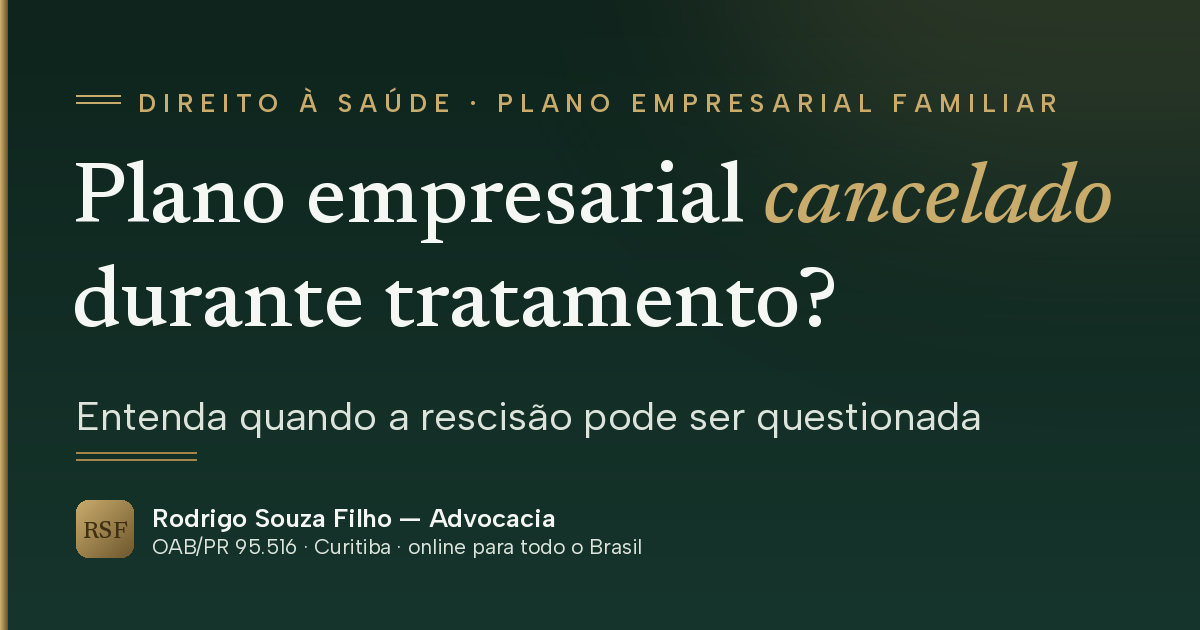
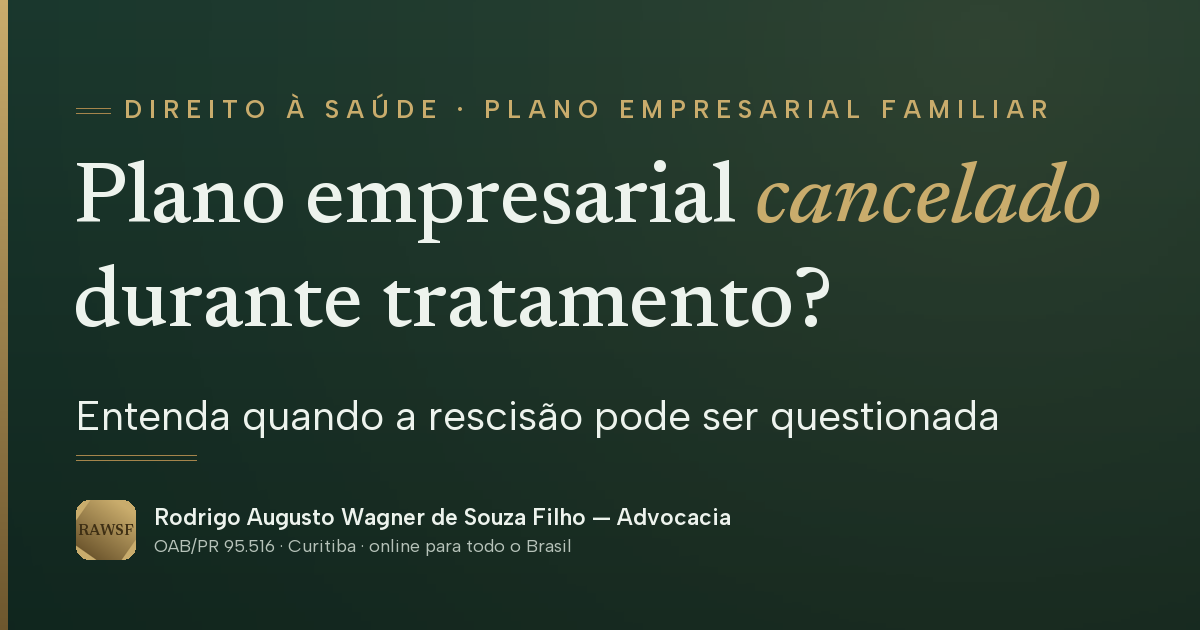
Imagens de compartilhamento com o nome completo e monograma RAWSF; instrucoes do projeto reescritas
As duas imagens OG foram refeitas pelo gerador novo em docs/ferramentas/gerar-og-saude.py, copiando o desenho antigo medido em pixels (titulo e faixas caem na mesma posicao, com 1 a 2 px de diferenca). CLAUDE.md e FLUXO-CLAUDE-CODE.md tinham as crases trocadas por barras invertidas, o nome antigo e caminhos de pasta que nao valem para as duas copias do repositorio.

diff --git a/CLAUDE.md b/CLAUDE.md
@@ -1,61 +1,55 @@
-# CLAUDE.md — Sites Dr. Rodrigo Souza Filho (advocacia)
+# CLAUDE.md — Direito à Saúde
 
-## Contexto
+Site de **Rodrigo Augusto Wagner de Souza Filho**, OAB/PR 95.516, Curitiba/PR.
+Monograma RAWSF. Repositório `direito-a-saude`, publicado em https://saude.rodrigosouzafilho.adv.br pela Vercel.
 
-3 sites: Institucional, Saúde, Carros (OAB/PR 95.516).
+Os três sites do escritório:
 
-## Arquitetura compartilhada
+| Site | Repositório | Endereço publicado |
+|---|---|---|
+| Institucional | `rodrigosouzafilho-adv-br` | https://www.rodrigosouzafilho.adv.br |
+| Direito à Saúde | `direito-a-saude` | https://saude.rodrigosouzafilho.adv.br |
+| Carros antigos | `regulariza-o` | https://carrosantigos.rodrigosouzafilho.adv.br |
 
-**Edite \modelos/\ — NUNCA saída gerada.**
+## Regra de ouro
+
+Editar **somente** `config.js` e `modelos/`. O build regenera os HTML da raiz e
+de `public/`:
+
+```bash
+node aplicar-config.js
+```
+
+A Vercel roda esse mesmo comando a cada envio para `main` e publica `public/`.
+Nunca editar os HTML da raiz nem de `public/`: o build sobrescreve os dois.
+
+O build também injeta `?v=<hash>` nos links de `assets/estilo.css` e
+`assets/app.js`, para o navegador de quem já visitou buscar a versão nova. Nos
+modelos o link fica limpo (`assets/estilo.css`); nunca fixar `?v=` à mão.
 
 ## Restrições fixas
 
-1. **Sem backend** (LGPD).
-2. **Provimento 205/2021** (sóbrio, sem promessa).
-3. **Nenhuma promessa de resultado**.
-4. **Nome proibido**.
-5. **Fontes self-hosted**.
+1. **Sem backend**: site 100% estático.
+2. **Provimento 205/2021 da OAB**: informativo e sóbrio. Sem promessa de
+   resultado ou de prazo, sem "consulta grátis", sem depoimento e sem número de
+   êxito. Ressalvas negativas ficam no rodapé; no corpo, linguagem positiva.
+3. **LGPD**: nada do Google carrega antes do consentimento; fontes
+   auto-hospedadas em `assets/fontes/` (nunca Google Fonts); o formulário não
+   envia nada a servidor.
+4. **Nome proibido**: o nome do projeto musical do dono não pode aparecer em
+   arquivo gerado.
+5. **Sem `Co-Authored-By`** nem atribuição a IA nos commits.
 
----
+## Antes de mexer
 
-## FLUXO DE 5 JANELAS
-
-### Você → Autoridade final (205/2021)
-
-### Janela A: Sonnet Arquiteto
-
-Institucional: \cd C:\Users\Asus\Documents\GitHub\rodrigosouzafilho-adv-br && claude --model claude-sonnet-5\
-Saúde: \cd C:\Users\Asus\Documents\GitHub\direito-a-saude && claude --model claude-sonnet-5\
-Carros: \cd C:\Users\Asus\Documents\GitHub\regulariza-o && claude --model claude-sonnet-5\
-
-Propõe nos \modelos/\. Respekta 205/2021.
-
-### Janela B: Opus 5 Contraditor
-
-Institucional: \cd C:\Users\Asus\Documents\GitHub\rodrigosouzafilho-adv-br && claude --model claude-opus-5\
-Saúde: \cd C:\Users\Asus\Documents\GitHub\direito-a-saude && claude --model claude-opus-5\
-Carros: \cd C:\Users\Asus\Documents\GitHub\regulariza-o && claude --model claude-opus-5\
-
-Questiona: viola 205/2021? Promete resultado? LGPD safe?
-
-### Janela C: Sonnet Executor
-
-Institucional: \cd C:\Users\Asus\Documents\GitHub\rodrigosouzafilho-adv-br && claude --model claude-sonnet-5 --effort medium\
-Saúde: \cd C:\Users\Asus\Documents\GitHub\direito-a-saude && claude --model claude-sonnet-5 --effort medium\
-Carros: \cd C:\Users\Asus\Documents\GitHub\regulariza-o && claude --model claude-sonnet-5 --effort medium\
-
-Implementa. Pode recusar. Valida JSON-LD.
-
-### Janela D: Fable Auditor
-
-Institucional: \cd C:\Users\Asus\Documents\GitHub\rodrigosouzafilho-adv-br && claude --model claude-fable-5 --effort ultracode\
-Saúde: \cd C:\Users\Asus\Documents\GitHub\direito-a-saude && claude --model claude-fable-5 --effort ultracode\
-Carros: \cd C:\Users\Asus\Documents\GitHub\regulariza-o && claude --model claude-fable-5 --effort ultracode\
-
-Verifica: 205/2021 OK? LGPD? Nome proibido? JSON-LD? CSP?
-
----
+- `git fetch` e conferir se a cópia local está atrás do GitHub. O repositório
+  está clonado em mais de uma pasta da máquina e o trabalho alterna entre elas.
+- A decisão é sempre do dono. Planejar não autoriza implementar; implementar não
+  autoriza commit, envio, publicação nem etiqueta.
+- Toda verificação vem classificada: REAL REMOTO, REAL LOCAL, DEMONSTRATIVO ou
+  SOMENTE ESTRUTURAL. Não afirmar que algo está no ar sem medir o que está no ar.
 
 ## Como trabalhar
 
-Português. Passe 205/2021 antes. Markdown único colável.
+Em português, em mensagens curtas. O fluxo de janelas por modelo está em
+`FLUXO-CLAUDE-CODE.md`.

diff --git a/FLUXO-CLAUDE-CODE.md b/FLUXO-CLAUDE-CODE.md
@@ -1,36 +1,55 @@
-# Fluxo de Três Janelas — Claude Code
+# Fluxo de janelas — Claude Code
 
-## Quick Start
+A decisão final é sempre sua. Cada janela é uma sessão do Claude Code aberta na
+pasta deste repositório; o que muda é o modelo e o esforço.
 
-Abra **três terminais na mesma pasta do projeto**.
+| Janela | Modelo | Papel |
+|---|---|---|
+| A — Arquiteto | Sonnet 5, em modo plano | Propõe a mudança nos `modelos/` e no `config.js` |
+| B — Contraditor | Opus 5 | Questiona: fere o Provimento 205/2021? promete resultado? é seguro em LGPD? |
+| C — Executor | Sonnet 5, esforço `medium` | Implementa. Pode recusar. Valida o JSON-LD |
+| D — Auditor | Fable 5.1, esforço `high` | Confere 205/2021, LGPD, nome proibido, JSON-LD e CSP |
 
-### Janela A: Planejamento (Opus 5)
-\\\ash
+## Abrir cada janela
+
+Sempre a partir da pasta deste repositório:
+
+```bash
+claude --model claude-sonnet-5
+```
+
+```bash
 claude --model claude-opus-5
-# Shift+Tab → plan mode
-\\\
+```
 
-### Janela B: Execução (Sonnet 5)
-\\\ash
+```bash
 claude --model claude-sonnet-5 --effort medium
-\\\
+```
 
-### Janela C: Auditoria (Fable 5)
-\\\ash
-claude --model claude-fable-5 --effort ultracode
-\\\
+```bash
+claude --model claude-fable-5-1 --effort high
+```
 
 ## Dentro da sessão
 
-\\\
-/model opus        /model sonnet      /model fable
-/effort medium     /effort ultracode  /effort low
-\\\
+Dá para trocar sem reabrir a janela:
 
-## Resumo
+```
+/model opus
+/model sonnet
+/model fable
+/effort medium
+/effort high
+```
 
-| Modelo | Esforço | Quando | Por quê |
-|--------|---------|--------|--------|
-| Opus 5 | plan mode | Planejamento | Pensa fundo, vê arquivos reais |
-| Sonnet 5 | medium | Execução | Balanceado, economiza token |
-| Fable 5 | ultracode | Auditoria | Máximo raciocínio + workflows |
+`Shift+Tab` alterna o modo plano, em que o Claude propõe sem editar arquivo.
+
+## Ordem de trabalho
+
+1. A propõe.
+2. B contesta.
+3. Você decide.
+4. C implementa só o que você aprovou.
+5. D audita.
+6. Você autoriza o commit, depois o envio, depois a publicação — cada um é uma
+   autorização separada.
